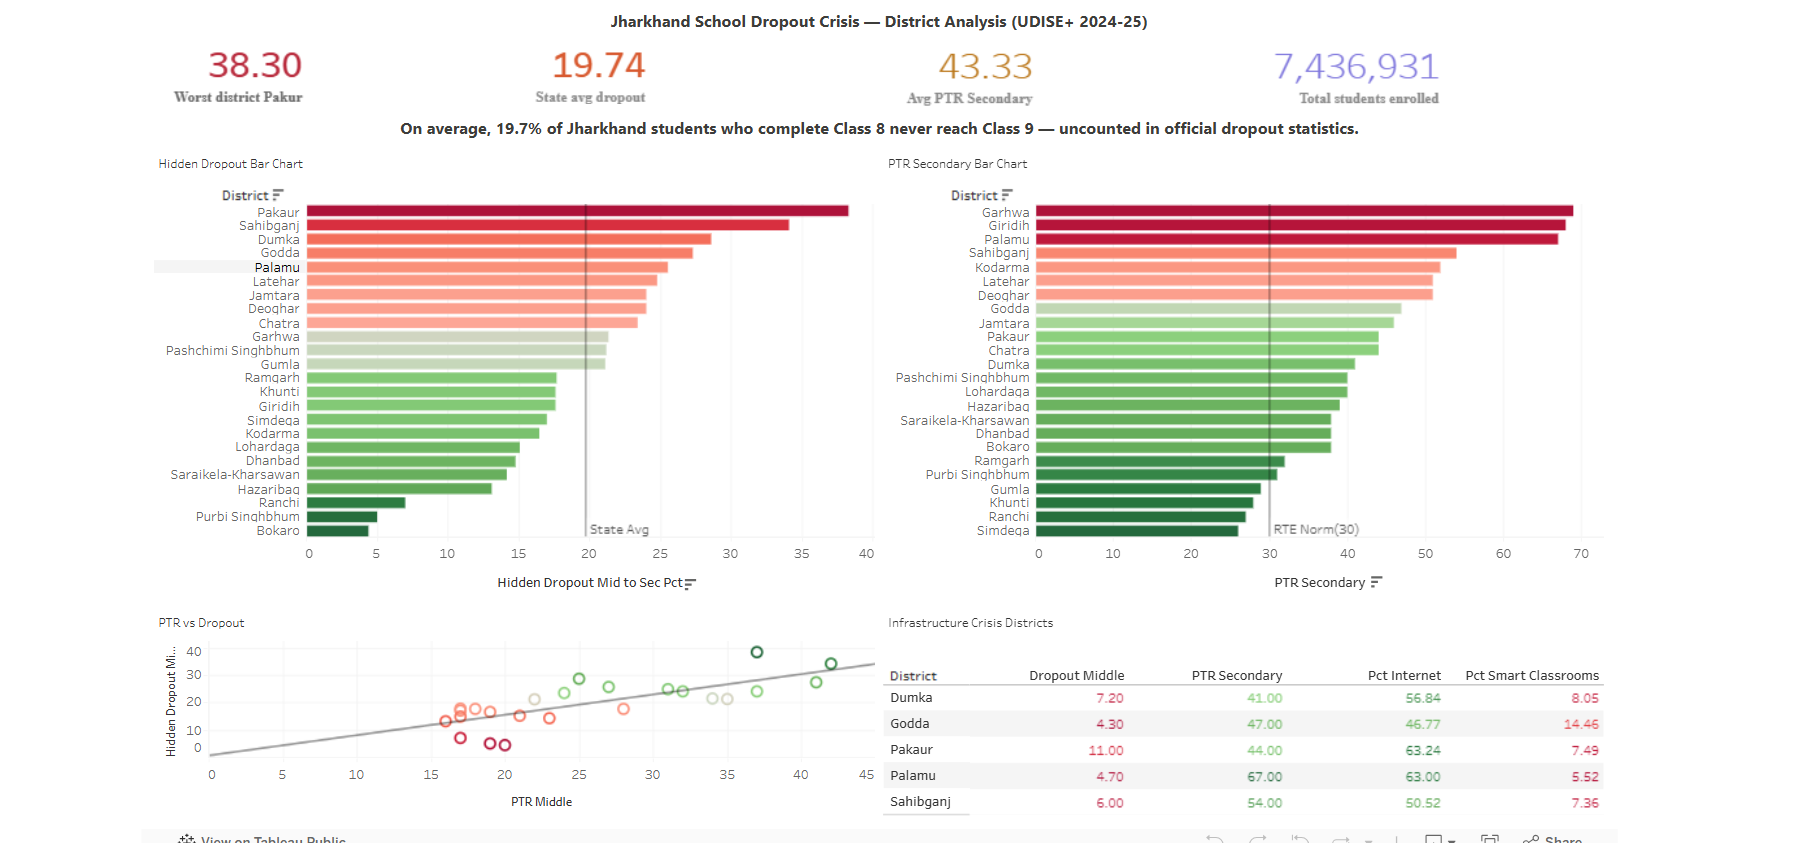
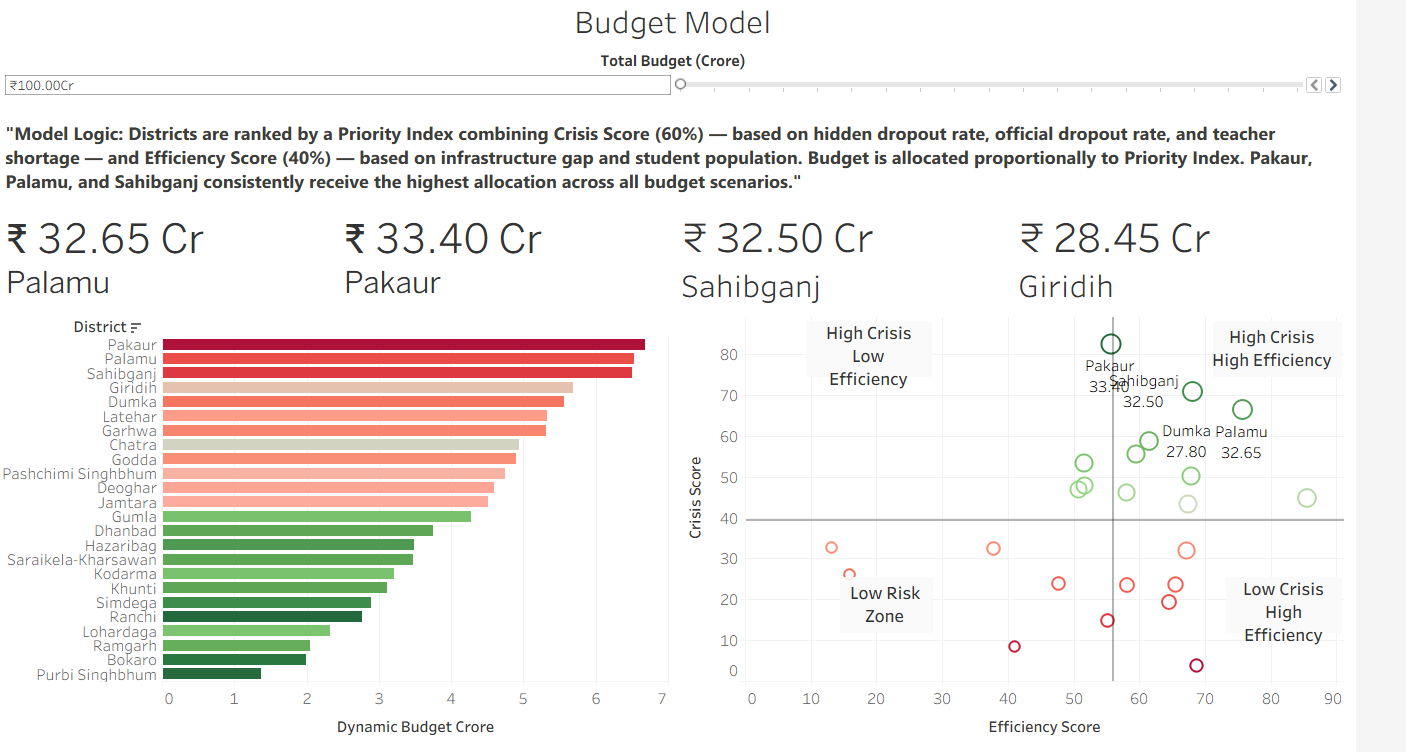
Add budget allocation model, charts, and dashboard screenshots

diff --git a/README.md b/README.md
@@ -40,7 +40,7 @@ The central finding: **Jharkhand's official dropout statistics significantly und
 ---
 ## Budget Allocation Model
 
-![Budget Model](dashboard/Budget_Allocation_Model.png)
+![Budget Model](dashboard/Budget_allocation_model.png)
 
 A data-driven budget allocation framework that determines optimal 
 distribution of education funding across all 24 Jharkhand districts 